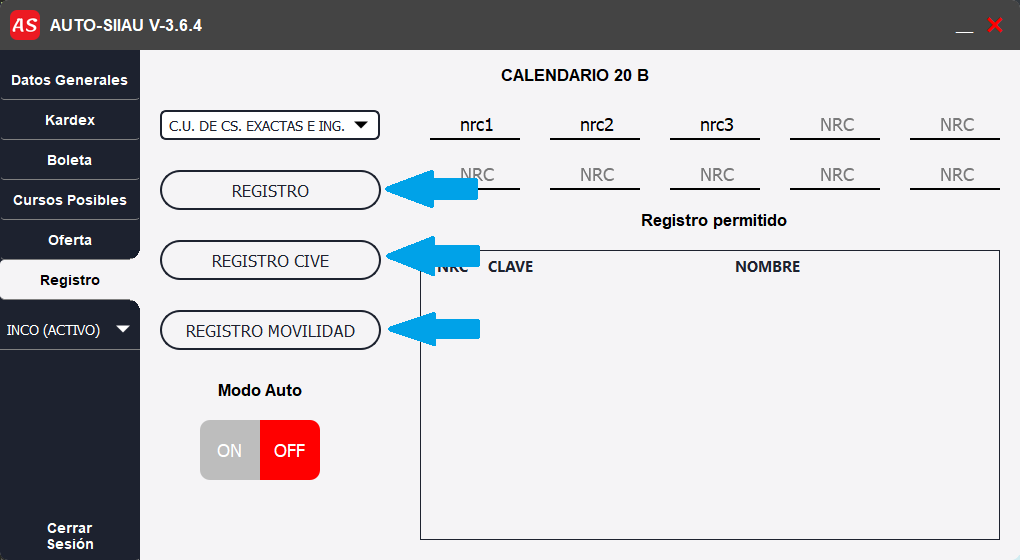
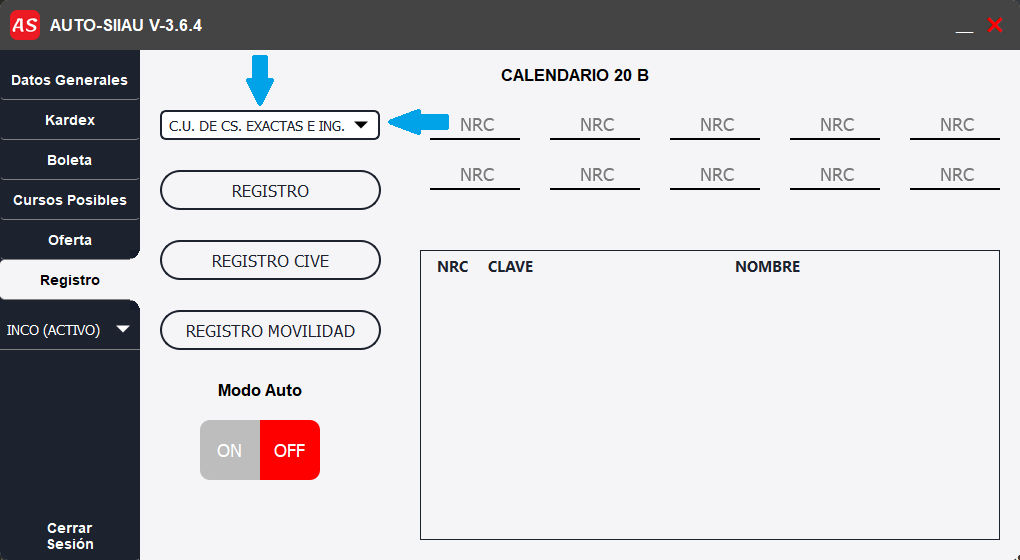
mas informacion de uso de la aplicacion

diff --git a/index.html b/index.html
@@ -115,35 +115,44 @@
 				<div class="card-body">
 					<h5 class="card-title">Como usar el registro</h5><hr class="bg-white">
 
+
 					<div class="card bg-dark ml-5 mr-5 mb-3 p-2 border-info">
-						<img class="card-img-top rounded" src="examples/0.png" alt="Card image cap">
+						<img class="card-img-top rounded" src="https://raw.githubusercontent.com/davidGutierrezAlvarez/auto-siiau-page/gh-page/examples/examples/1.png" alt="Card image cap">
 						<div class="card-body">
-					    	<p class="card-text">1.- Selecciona todas mas materias a registrar y escribe su <b>NRC</b> en el campo respectivo.</p>
+					    	<p class="card-text">1.- Selecciona el centro universitario en el cual estas inscrito.</p>
 					  </div>
 					</div>
 
 					<div class="card bg-dark ml-5 mr-5 mb-3 p-2 border-info">
-						<img class="card-img-top rounded" src="examples/1.png" alt="Card image cap">
+						<img class="card-img-top rounded" src="https://raw.githubusercontent.com/davidGutierrezAlvarez/auto-siiau-page/gh-page/examples/examples/2.png" alt="Card image cap">
 						<div class="card-body">
-					    	<p class="card-text">2.- Selecciona el tipo de registro que deseas hacer.</p>
-					    	<p>posdata: verifica que tu registro sea el correcto.</p>
+					    	<p class="card-text">2.- Selecciona todas mas materias a registrar y escribe su <b>NRC</b> en el campo respectivo.</p>
 					  </div>
 					</div>
 
 					<div class="card bg-dark ml-5 mr-5 mb-3 p-2 border-info">
-						<img class="card-img-top rounded" src="examples/2.png" alt="Card image cap">
+						<img class="card-img-top rounded" src="https://raw.githubusercontent.com/davidGutierrezAlvarez/auto-siiau-page/gh-page/examples/examples/3.png" alt="Card image cap">
 						<div class="card-body">
-					    	<p class="card-text">3.- Tener modo <b>auto</b> activo permitira que el software busque materias por ti.</p>
-					    	<p>posdata: despues de seleccionar este modo de ejecucion debes escoger el tipo de registro para que inicie la busqueda de materias.</p>
+					    	<p class="card-text">3.- Selecciona el tipo de registro que deseas hacer.</p>
+					    	<p>posdata: verifica que tu tipo de registro sea el correcto.</p>
 					  </div>
 					</div>
 
 					<div class="card bg-dark ml-5 mr-5 mb-3 p-2 border-info">
-						<img class="card-img-top rounded" src="examples/3.png" alt="Card image cap">
+						<img class="card-img-top rounded" src="https://raw.githubusercontent.com/davidGutierrezAlvarez/auto-siiau-page/gh-page/examples/examples/4.png" alt="Card image cap">
 						<div class="card-body">
-					    	<p class="card-text">4.- Para detener el modo automatico tan solo debes dar click en <b>STOP</b>.</p>
+					    	<p class="card-text">4.- Tener modo <b>auto</b> activo permitira que el software busque materias por ti.</p>
+					    	<p>posdata: despues de seleccionar este modo de ejecucion debes escoger el tipo de registro (<i>paso 3</i>) para que inicie la busqueda de materias.</p>
 					  </div>
 					</div>
+
+					<div class="card bg-dark ml-5 mr-5 mb-3 p-2 border-info">
+						<img class="card-img-top rounded" src="https://raw.githubusercontent.com/davidGutierrezAlvarez/auto-siiau-page/gh-page/examples/5.png" alt="Card image cap">
+						<div class="card-body">
+					    	<p class="card-text">5.- Para detener el modo automatico tan solo debes dar click en <b>STOP</b>.</p>
+					  </div>
+					</div>
+
 					<p class="ml-5">Y con esto podras usar la sesion de agenda. <br>Posdata: si no te permite el registro contactate con 
 						<a href="" class="badge badge-warning">nosotros.</a></p>
 				</div>
@@ -169,7 +178,7 @@
 			<p class="mb-0 mt-0">Este software <b>NO</b> es oficial de UDG, sin embargo te permite ver tus datos como alumno y no genera ni un problema al utilizarlo.</p>
 			<p class="mb-0">Los unicos dato que este software recoge son el codigo de alumno y la carrera cursante, tan solo para tener un registro de cuantas personas lo han utilizado.</p>
 			<p class="mb-0"><b>NO</b> estas en obligacion de utilizar este software.</p>
-			<p class="mb-0">Si tienes alguna duda o sugerencia puedes hacerla <a href="" class="badge badge-warning">aqui</a></p>
+			<p class="mb-0">Si tienes alguna duda o sugerencia puedes contactarte con  <a href="" class="badge badge-warning">nosotros.</a></p>
 		</div>
 
 		<!-- CAJA DE DESCARGA -->
